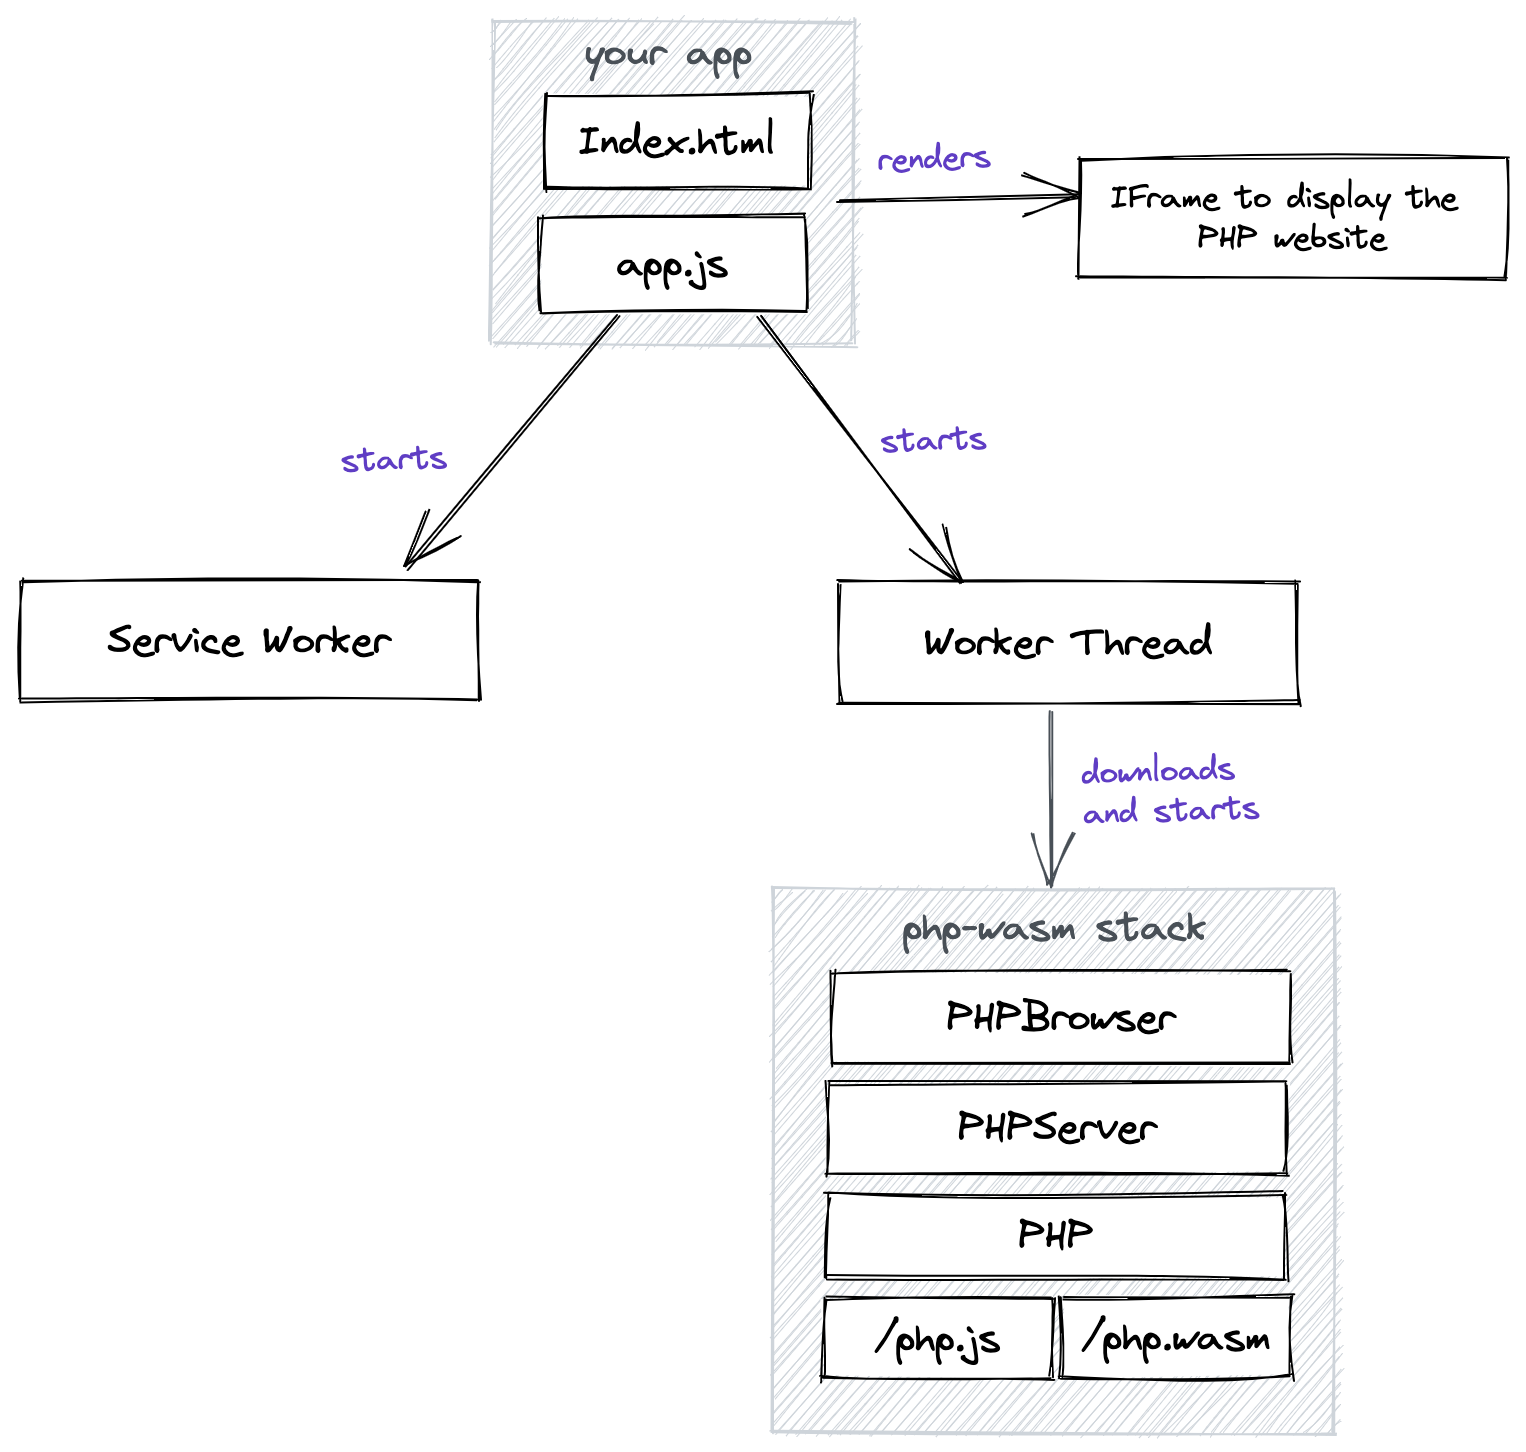
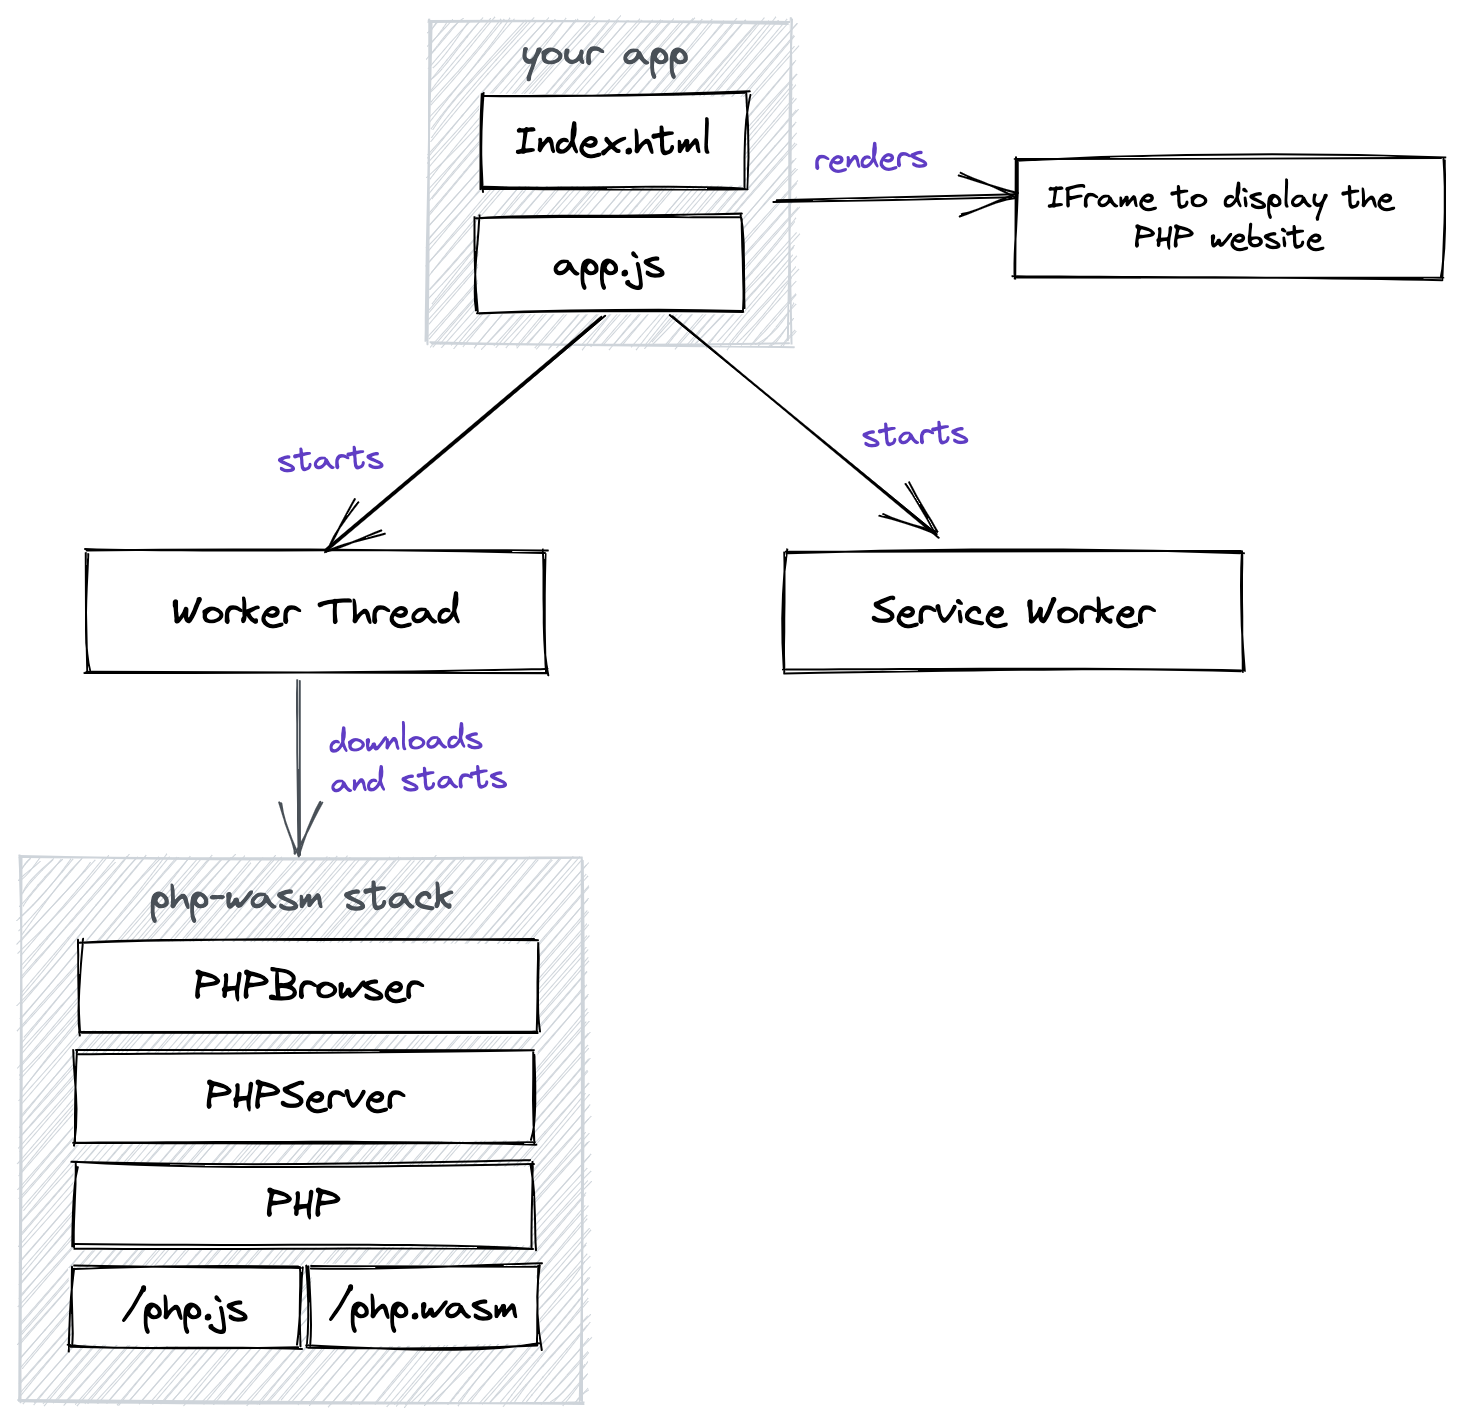
Clarify the data flow between the different threads

Changed region(s): [[0.0, 0.0, 0.985, 0.9909], [0.985, 0.1239, 1.0, 0.1548]]

diff --git a/packages/php-wasm-browser/src/worker-thread.js b/packages/php-wasm-browser/src/worker-thread.js
@@ -50,7 +50,8 @@ const noop = () => { };
  * }
  * ```
  * 
- * @param {async ({absoluteUrl}) => PHPBrowser} bootBrowser An async function that produces the PHP browser.
+ * @param {WorkerThreadConfiguration} configuration The worker thread configuration.
+ * @return {Object} The backend object to communicate with the parent thread.
  */
 export async function initializeWorkerThread({
 	phpBrowser,
@@ -131,15 +132,22 @@ export async function initializeWorkerThread({
 			queryString: parsedUrl.search,
 		});
 	}
+
+	return currentBackend;
 }
 
-async function defaultBootBrowser({ absoluteUrl }) {
+/**
+ * @typedef {Object} WorkerThreadConfiguration
+ * @property {PHPBrowser} [phpBrowser] Optional. The PHP browser instance to use.
+ * @property {BroadcastChannel} [broadcastChannel] Optional. The broadcast channel to use for communication
+ * 												   with the service worker.
+ */
+
+async function defaultBootBrowser({ absoluteUrl = location.origin } = {}) {
 	return new PHPBrowser(
 		new PHPServer(
-			await startPHP('/php.js', currentBackend.jsEnv, phpArgs),
-			{
-				absoluteUrl: absoluteUrl || location.origin
-			}
+			await startPHP('/php.js', currentBackend.jsEnv),
+			{ absoluteUrl }
 		)
 	)
 }
@@ -189,3 +197,39 @@ export const currentBackend = (function () {
     /* eslint-enable no-undef */
 })();
 
+
+/**
+ * Call this in a Worker Thread to start load the PHP runtime
+ * and post the progress to the main thread.
+ * 
+ * @see startPHP
+ * @param {Module} phpLoaderModule The ESM-wrapped Emscripten module. Consult the Dockerfile for the build process.
+ * @param {Object} phpModuleArgs Optional. The Emscripten module arguments, see https://emscripten.org/docs/api_reference/module.html#affecting-execution.
+ * @param {Module[]} dataDependenciesModules. Optional. A list of the ESM-wrapped Emscripten data dependency modules.
+ * @returns {PHP} PHP instance. 
+ */
+ export async function loadPHPWithProgress(phpLoaderModule, dataDependenciesModules=[], phpArgs = {}) {
+    const modules = [phpLoaderModule, ...dataDependenciesModules];
+
+	const assetsSizes = modules.reduce((acc, module) => {
+		acc[module.dependencyFilename] = module.dependenciesTotalSize;
+		return acc;
+	}, {});
+    const downloadMonitor = new EmscriptenDownloadMonitor(assetsSizes);
+    downloadMonitor.addEventListener('progress', (e) => 
+    currentBackend.postMessageToParent({
+            type: 'download_progress',
+            ...e.detail,
+        })
+    );
+
+    return await startPHP(
+        phpLoaderModule,
+        currentBackend.jsEnv,
+        {
+            ...phpArgs,
+            ...downloadMonitor.phpArgs
+        },
+        dataDependenciesModules
+    );
+ }

diff --git a/packages/php-wasm-browser/src/index.js b/packages/php-wasm-browser/src/index.js
@@ -1,50 +1,12 @@
-import { currentBackend } from './worker-thread';
 import { startPHP } from 'php-wasm';
 import EmscriptenDownloadMonitor from './emscripten-download-monitor';
 
-export { currentBackend };
-export { initializeWorkerThread } from './worker-thread';
+export { initializeWorkerThread, loadPHPWithProgress } from './worker-thread';
 export { startPHPWorkerThread } from './spawn-worker-thread';
 export { setURLScope } from './scope';
 export { registerServiceWorker, initializeServiceWorker, seemsLikeAPHPServerPath } from './service-worker';
 export { postMessageExpectReply, awaitReply, responseTo } from './messaging';
 export { cloneResponseMonitorProgress } from './emscripten-download-monitor';
-
-/**
- * Call this in a Worker Thread to start load the PHP runtime
- * and post the progress to the main thread.
- * 
- * @see startPHP
- * @param {Module} phpLoaderModule The ESM-wrapped Emscripten module. Consult the Dockerfile for the build process.
- * @param {Object} phpModuleArgs Optional. The Emscripten module arguments, see https://emscripten.org/docs/api_reference/module.html#affecting-execution.
- * @param {Module[]} dataDependenciesModules. Optional. A list of the ESM-wrapped Emscripten data dependency modules.
- * @returns {PHP} PHP instance. 
- */
-export async function loadPHPWithProgress(phpLoaderModule, dataDependenciesModules=[], phpArgs = {}) {
-    const modules = [phpLoaderModule, ...dataDependenciesModules];
-
-	const assetsSizes = modules.reduce((acc, module) => {
-		acc[module.dependencyFilename] = module.dependenciesTotalSize;
-		return acc;
-	}, {});
-    const downloadMonitor = new EmscriptenDownloadMonitor(assetsSizes);
-    downloadMonitor.addEventListener('progress', (e) => 
-    currentBackend.postMessageToParent({
-            type: 'download_progress',
-            ...e.detail,
-        })
-    );
-
-    return await startPHP(
-        phpLoaderModule,
-        currentBackend.jsEnv,
-        {
-            ...phpArgs,
-            ...downloadMonitor.phpArgs
-        },
-        dataDependenciesModules
-    );
-}
 
 /**
  * The default base used to convert a path into the URL object.

diff --git a/packages/php-wasm-browser/docs/index.md b/packages/php-wasm-browser/docs/index.md
@@ -17,7 +17,7 @@ That's a lot of information to take in! Keep reading for the detailed breakdown.
 
 ### Browser tab orchestrates the execution
 
-The main `index.html` ties the entire application together. It starts all the concurrent processes, acts as a traffic controller between them. The app only lives as long as the main `index.html`.
+The main `index.html` ties the entire application together. It starts all the concurrent processes and displays the PHP responses. The app only lives as long as the main `index.html`.
 
 Keep this point in mind as you read through the rest of the docs. At this point it may seem obvious, by the lines may get blurry later on. This package runs code outside of the browser tab using Web Workers, Service Workers, and, in the future, Shared Workers. Some of these workers may keep running even after the browser tab with `index.html` is closed.
 
@@ -27,7 +27,7 @@ Here's what a boot sequence for a minimal app looks like:
 
 ![The boot sequence](./boot-sequence.png)
 
-The main app initiates the Iframe, the Service Worker, and the Worker Thread. Note how the main app doesn't use the PHP stack directly – it's all handled by the Worker Thread.
+The main app initiates the Iframe, the Service Worker, and the Worker Thread. Note how the main app doesn't use the PHP stack directly – it's all handled in the Worker Thread.
 
 Here's what that boot sequence looks like in code:
 
@@ -46,34 +46,22 @@ import {
 } from 'php-wasm-browser';
 
 export async function startApp() {
-	const workerThread = await startPHPWorkerThread({
-        // Must point to a valid worker thread implementation:
-		frontend: getWorkerThreadFrontend('webworker', '/worker-thread.js'),
+	const workerThread = await startPHPWorkerThread(
+        // Worker Thread backend – either 'iframe' or 'webworker'
+		'webworker',
+        // Must point to a valid worker thread script:
+		'/worker-thread.js'
+	);
+    // Must point to a valid Service Worker script:
+	await registerServiceWorker('/service-worker.js');
 
-        // PHPserver uses this URL to populate $_SERVER:
-		absoluteUrl: window.location.origin
-	});
     // Create a few PHP files to browse:
     await workerThread.eval(`<?php
         file_put_contents('index.php', '<a href="page.php">Go to page.php</a>');
         file_put_contents('page.php', '<?php echo "Hello from PHP!"; ?>');
     `);
-	await registerServiceWorker({
-        // Must point to a valid Service Worker implementation:
-		url: '/service-worker.js',
 
-        // Must be the same as in /service-worker.js:
-		broadcastChannel: new BroadcastChannel('wordpress-wasm'),
-
-		// Forwards any HTTP requests worker thread to resolve them in another process.
-		// This way they won't slow down the UI interactions.
-		onRequest: async (request) => {
-			return await workerThread.HTTPRequest(request);
-		}
-	});
-
-    // Once everything is in place, let's navigate to index.php of
-    // our PHP app
+    // Navigate to index.php:
     document.getElementById('my-app').src = '/index.php';
 }
 startApp();
@@ -82,8 +70,10 @@ startApp();
 **/worker-thread.js**:
 ```js
 import { initializeWorkerThread } from 'php-wasm-browser';
+
 // Loads /php.js and /php.wasm provided by php-wasm,
-// Listens to commands issued by the main app
+// Listens to commands issued by the main app and
+// the requests from the Service Worker.
 initializeWorkerThread();
 ```
 
@@ -92,11 +82,8 @@ initializeWorkerThread();
 import { initializeServiceWorker } from 'php-wasm-browser';
 
 // Intercepts all HTTP traffic on the current domain and
-// passes it to onRequest() defined in the app.js:
-initializeServiceWorker({
-    // Must be the same as in /app.js:
-    broadcastChannel: new BroadcastChannel('wordpress-wasm')
-});
+// passes it to the Worker Thread.
+initializeServiceWorker();
 ```
 
 Keep reading to learn how all these pieces fit together.
@@ -110,12 +97,10 @@ Here's what happens whenever the iframe issues a same-domain request:
 A step-by-step breakown:
 
 1. The request is intercepted by the Service Worker
-2. The Service Worker passes it to the main app
-3. The main app passes it to the Worker Thread
-4. The Worker Thread uses the `PHPServer` to convert that request to a response
-5. The Worker Thread passes the response to the main app
-6. The main app passes it to the Service Worker
-7. The Service Worker provides the browser with a response
+2. The Service Worker passes it to the Worker Thread
+3. The Worker Thread uses the `PHPServer` to convert that request to a response
+4. The Worker Thread passes the response to the Service Worker
+5. The Service Worker provides the browser with a response
 
 At this point, if the request was triggered by user clicking on a link, the browser will render PHPServer's response inside the iframe.
 
@@ -129,7 +114,7 @@ In our app example above, `index.php` renders the following HTML:
 <a href="page.php">Go to page.php</a>
 ```
 
-Imagine our `index.html` rendered that in a `<div>` instead of an `<iframe>`. As soon as you clicked on that link, the browser would try to navigate from `index.html` to `page.php`. However, `index.html` runs the entire PHP app including the Worker Thread, the PHPServer, and the traffic control connecting them to the Service Worker. Navigating away from it would destroy the app.
+Imagine our `index.html` rendered it in a `<div>` instead of an `<iframe>`. As soon as you clicked on that link, the browser would try to navigate from `index.html` to `page.php`. However, `index.html` runs the entire PHP app including the Worker Thread, the PHPServer, and the traffic control connecting them to the Service Worker. Navigating away from it would destroy the app.
 
 Now, consider an iframe with the same link in it:
 
@@ -162,13 +147,12 @@ As soon as you click that button the browser will freeze and you won't be able t
 Worker threads are separate programs that can process heavy tasks outside of the main application. They must be initiated by the main JavaScript program living in the browser tab. Here's how:
 
 ```js
-const workerThread = await startPHPWorkerThread({
-    // Multiprocessing backend:
-    backend: webWorkerBackend('/worker-thread.js'),
-
-    // PHPServer URL:
-    absoluteUrl: 'http://127.0.0.1:8777/'
-});
+const workerThread = await startPHPWorkerThread(
+    // Worker Thread backend – either 'iframe' or 'webworker'
+    'webworker',
+    // Must point to a valid worker thread script:
+    '/worker-thread.js'
+);
 workerThread.eval(`<?php
     echo "Hello from the thread!";
 `);
@@ -216,7 +200,12 @@ This package provides the following backends out of the box:
 ##### `iframeBackend`
 
 <!-- Include the reference documentation of iframeBackend -->
-<!-- Include information about the Double domain trick and  the Origin-Agent-Cluster feature -->
+<!-- Include information about the Double domain trick and the Origin-Agent-Cluster  that hints the browser to allocate a separate process.
+
+It makes for a noticable speed improvement in the browsers that support it.
+
+In the browsers that don't, the iframe must be loaded from another domain to spin a new browser thread. If it's loaded from the same domain, PHPServer will run in the same thread that paints the user interface and dramatically slow down all user interactions.
+-->
 
 ### Service Workers
 
@@ -252,26 +241,10 @@ Here's the minimal setup:
 import { registerServiceWorker } from 'php-wasm-browser';
 
 function main() {
-	await registerServiceWorker({
-        // Must point to a valid Service Worker implementation:
-		url: '/service-worker.js',
-
-        // Used to communicate with the Service Worker.
-        // Must be the same as in /service-worker.js:
-		broadcastChannel: new BroadcastChannel('wordpress-wasm'),
-
-		// Forwards any HTTP requests to a Worker Thread to resolve them in another process.
-		// This way they won't slow down the UI interactions.
-		onRequest: async (request) => {
-            // Note you'll need to start the workerThread separately.
-            // See the Boot Sequence section of this document
-			return await workerThread.HTTPRequest(request);
-		}
-	});
+    // Must point to a valid Service Worker implementation:
+	await registerServiceWorker( '/service-worker.js' );
 }
 ```
-
-<!-- Explain the available options – include the service worker reference doc -->
 
 You will also need a separate `/service-worker.js` file that actually intercepts and routes the HTTP requests. Here's what a minimal implementation looks like:
 
@@ -280,15 +253,12 @@ You will also need a separate `/service-worker.js` file that actually intercepts
 import { initializeServiceWorker } from 'php-wasm-browser';
 
 // Intercepts all HTTP traffic on the current domain and
-// passes it to onRequest() defined in the app.js:
-initializeServiceWorker({
-    // Used to communicate with app.js.
-    // Must be the same as in /app.js:
-    broadcastChannel: new BroadcastChannel('wordpress-wasm')
-});
+// passes it to the Worker Thread.
+initializeServiceWorker();
 ```
 
 <!-- Explain the available options – include the service worker reference doc -->
+
 ### Cross-process communication
 
 `php-wasm-browser` implements request/response dynamics on top of JavaScript's `postMessage`.
@@ -299,7 +269,7 @@ By default, `postMessage` does not offer any request/response mechanics. You may
 
 The idea is to include a unique `requestId` in every message sent, and then wait for a message referring to the same `requestId`.
 
-<!-- Include the messaging reference doc -->
+See the [messaging module docs](../src/messaging.js) for more details.
 
 ### Scopes
 
@@ -307,11 +277,11 @@ Scopes keep your app working when you open it in two different different browser
 
 The Service Worker passes the intercepted HTTP requests to the PHPServer for rendering. Technically, it sends a message through a [`BroadcastChannel`](https://developer.mozilla.org/en-US/docs/Web/API/BroadcastChannel) which then gets delivered to every browser tab where the application is open. This is undesirable, slow, and leads to unexpected behaviors.
 
-Unfortunately, the Service Worker cannot directly communicate with the tab that sent the request – see [PR #31](https://github.com/WordPress/wordpress-wasm/pull/31) and [issue #9](https://github.com/WordPress/wordpress-wasm/issues/9) for more details.
+Unfortunately, the Service Worker cannot directly communicate with the relevant Worker Thread – see [PR #31](https://github.com/WordPress/wordpress-wasm/pull/31) and [issue #9](https://github.com/WordPress/wordpress-wasm/issues/9) for more details.
 
 Scopes enable each browser tab to:
 
-* Brand its own outgoing HTTP requests with a unique id
+* Brand the outgoing HTTP requests with a unique tab id
 * Ignore any `BroadcastChannel` messages with a different id
 
 Technically, a scope is a string included in the `PHPServer.absoluteUrl`. For example:
@@ -321,10 +291,38 @@ Technically, a scope is a string included in the `PHPServer.absoluteUrl`. For ex
 
 The service worker is aware of this concept and will attach the `/scope:` found in the request URL to the related `BroadcastChannel` communication.
 
-To use scopes, generate ant random ID and passing it to both `startPHPWorkerThread` and `registerServiceWorker` via the `scope` option.
+To use scopes, initiate the worker thread with a scoped `absoluteUrl`:
+
+```js
+import { startPHP, PHPServer, PHPBrowser } from 'php-wasm';
+import { initializeWorkerThread } from 'php-wasm-browser';
+import { setURLScope } from 'php-wasm-browser';
+
+async function main() {
+    const php = await startPHP(import('/php.js'));
+
+    // Don't use the absoluteURL directly:
+    const absoluteURL = 'http://127.0.0.1';
+
+    // Instead, set the scope first:
+    const scope = Math.random().toFixed(16);
+    const scopedURL = setURLScope(absoluteURL, scope).toString();
+
+    const server = new PHPServer(php, {
+        documentRoot: '/var/www', 
+        absoluteUrl: scopedURL
+    });
+    
+    const browser = await new PHPBrowser(server);
+
+    await initializeWorkerThread({
+        phpBrowser: browser
+    });
+}
+```
 
 ## Utilities
 
-### Progress monitor
+### EmscriptenDownloadMonitor
 
 <!-- Include the reference docs -->
